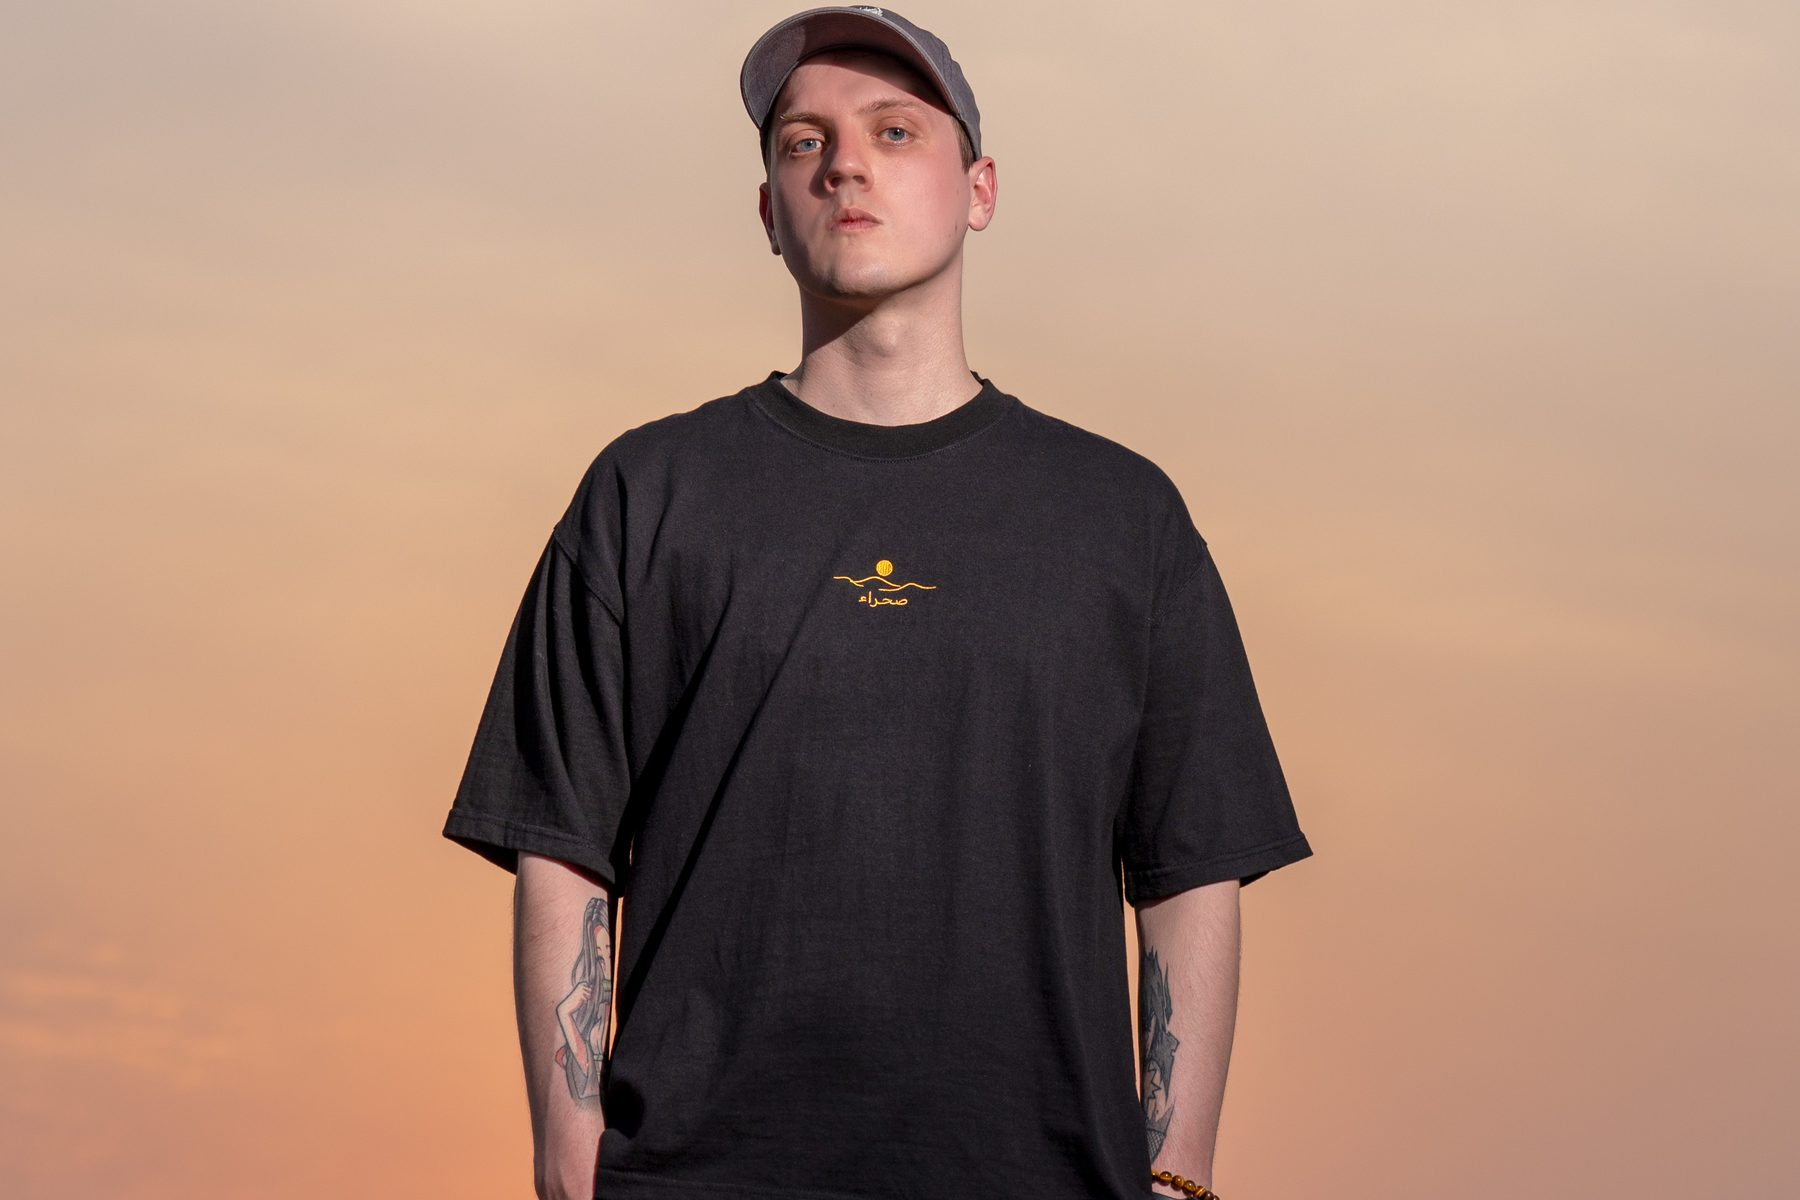
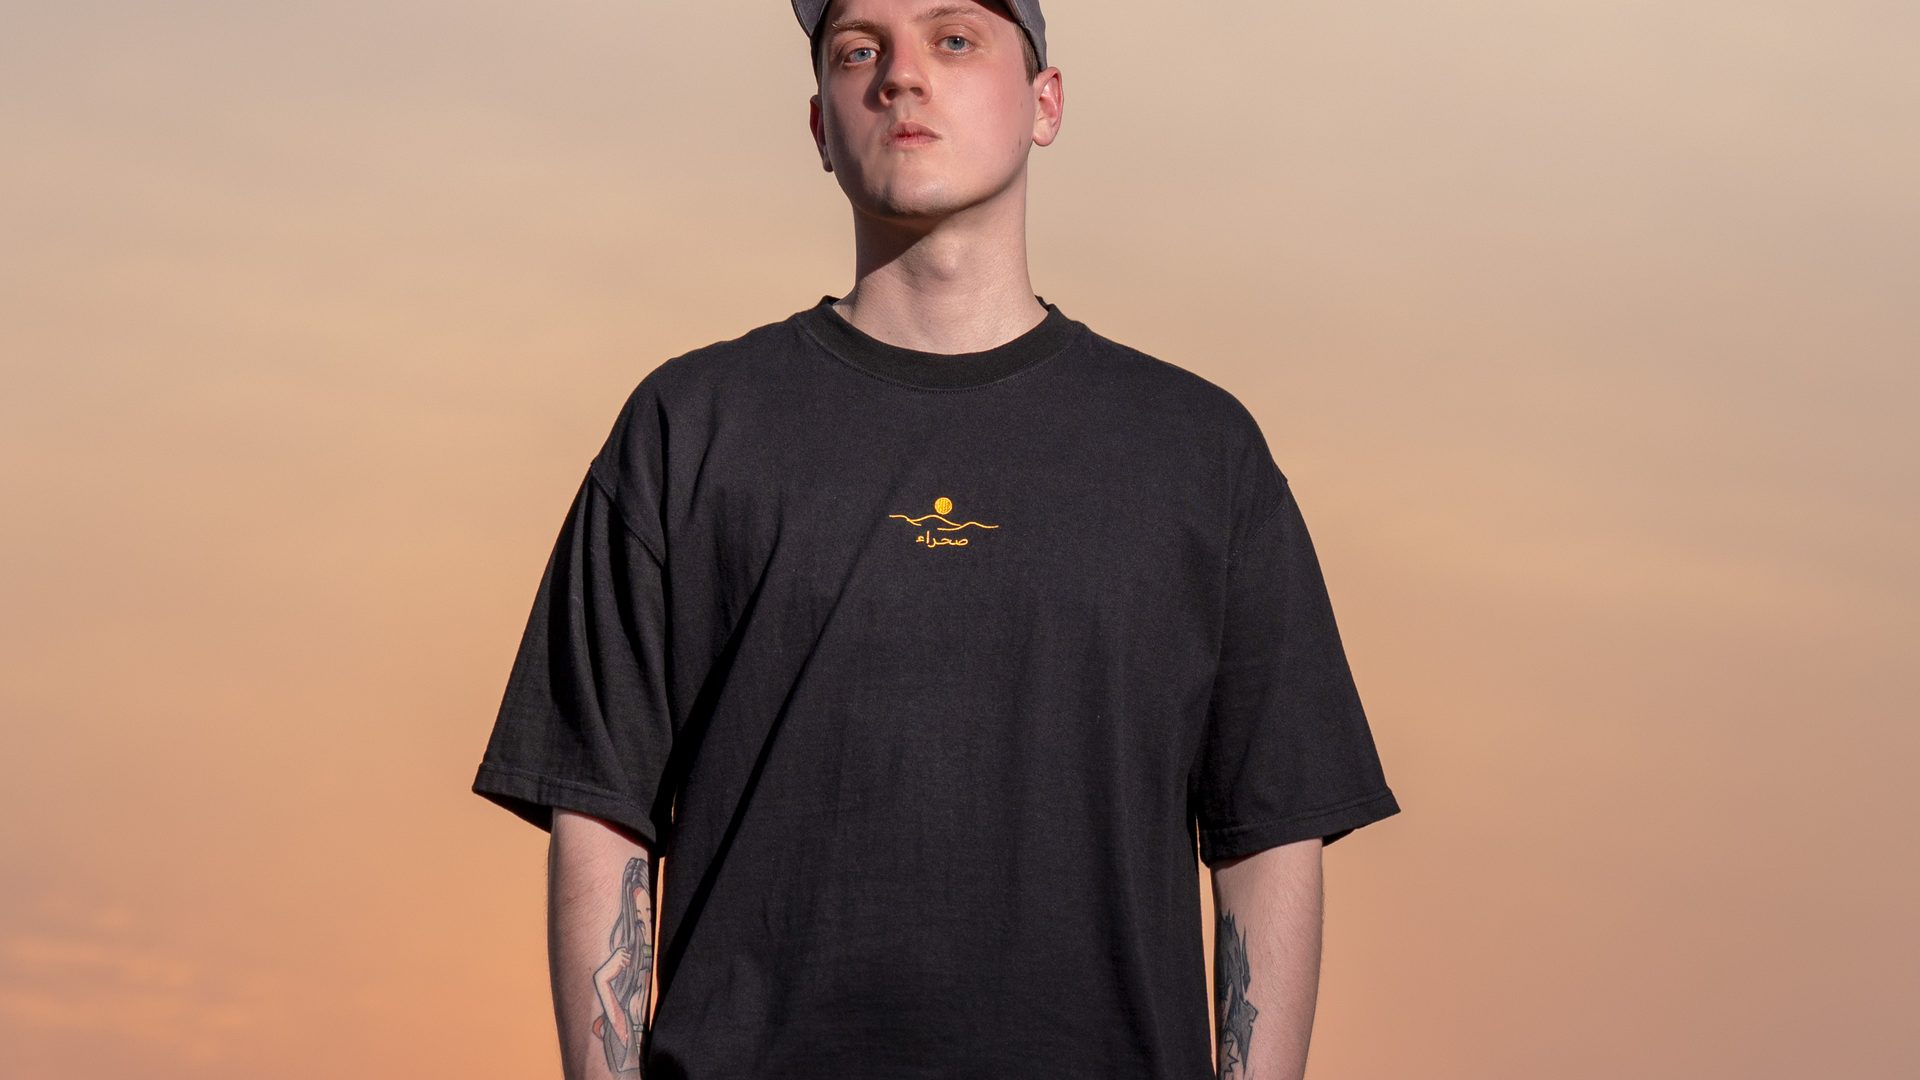
Hero: tagline top, caption left rail, CTA bottom; 16:9 crops

diff --git a/index.html b/index.html
@@ -636,6 +636,59 @@ footer{position:relative;z-index:2}
 </style>
 <script>try{var g=sessionStorage.getItem('sb_geo');if(g&&/^[A-Z]{2}$/.test(g)){document.documentElement.setAttribute('data-market',g==='AE'?'uae':(['SA','QA','OM','BH','KW'].indexOf(g)>-1?'gcc':'intl'));}}catch(e){}</script>
 <style data-hslide>
+/* ---- hero furniture pushed to the EDGES (Faheem, 21 Sep) ------------------
+   Centred type sat straight on top of the garment and took the focus off it.
+   Tagline pins to the top, CTA and dots to the bottom, the changing caption to
+   the left edge - so the middle of every frame, where the print is, stays clear. */
+/* flex:1 1 auto beats the #s-hero .col{flex:0 1 570px} still live in the
+   min-width:961px block - without it .col hugged its content and space-between
+   had nothing to distribute, so tagline and CTA bunched in the middle. */
+/* Pin the wrap to the section box instead of negotiating with .stop's own flex
+   centring - that kept collapsing .col to its content height, so space-between
+   had nothing to distribute and the tagline and CTA bunched mid-screen.
+   Top inset clears the fixed nav, bottom inset clears the scroll cue. */
+#s-hero .j-wrap{position:absolute!important;inset:104px 0 74px;display:flex;
+  align-items:stretch!important;justify-content:center;padding:0!important;
+  max-width:none!important;margin:0!important}
+/* flex-start + margin-top:auto on the CTA, not space-between: with three
+   children (h1, actions, dots) space-between parked the CTA in the middle of
+   the frame, which is the part that has to stay clear for the garment. */
+#s-hero .col{flex:1 1 auto!important;display:flex;flex-direction:column;
+  justify-content:flex-start;max-width:none!important;width:100%;
+  padding:0 clamp(18px,5vw,64px)!important}
+#s-hero .actions{margin-top:auto!important;margin-bottom:0}
+#s-hero h1{margin:0 auto;max-width:15ch;flex:0 0 auto}
+#s-hero .hero-mid{flex:1 1 auto}
+#s-hero .actions{margin-left:auto;margin-right:auto;flex:0 0 auto}
+#s-hero .hslide-dots{flex:0 0 auto}
+/* left rail, vertically centred, clear of the middle of the photo */
+#s-hero .hslide-cap{position:absolute;left:clamp(18px,5vw,64px);top:50%;
+  transform:translateY(-50%);width:min(30ch,28vw);height:auto;margin:0;text-align:left;z-index:4}
+#s-hero .hslide-cap-i{position:absolute;left:0;right:auto;top:0;width:100%;text-align:left}
+/* a soft left edge so the caption reads over whatever the photo puts there,
+   without darkening the middle of the frame where the garment is */
+/* darken only where type sits - the top band under the tagline, the bottom band
+   under the CTA, and a soft left edge for the caption. The middle stays close to
+   clear so the print on the garment is the brightest thing on screen. */
+#s-hero .hslide-scrim{background:
+  linear-gradient(180deg,rgba(10,8,18,.72) 0%,rgba(10,8,18,.22) 24%,rgba(10,8,18,.12) 52%,
+                  rgba(10,8,18,.30) 74%,rgba(10,8,18,.82) 100%),
+  linear-gradient(90deg,rgba(10,8,18,.60) 0%,rgba(10,8,18,.14) 28%,rgba(10,8,18,0) 46%)}
+/* the wide crops are cut at 16:9, the same ratio as the desktop hero box, so
+   object-fit:cover takes almost nothing more - what is framed in the file is
+   what ships, heads and prints included. */
+#s-hero .hslide-f img{object-position:50% 50%}
+@media(max-width:860px){
+  /* no room for a left rail next to the photo - caption sits under the tagline */
+  #s-hero .j-wrap{inset:96px 0 66px}
+  #s-hero .hslide-cap{position:relative;left:auto;top:auto;transform:none;
+    width:100%;max-width:520px;margin:14px auto 0;text-align:center}
+  #s-hero .hslide-cap-i{text-align:center}
+  #s-hero .hslide-scrim{background:linear-gradient(180deg,rgba(10,8,18,.72) 0%,rgba(10,8,18,.40) 30%,
+    rgba(10,8,18,.38) 62%,rgba(10,8,18,.84) 100%)}
+  #s-hero .hslide-f img{object-position:50% 42%}
+}
+
 /* ---- hero: the photograph IS the hero (Faheem, 21 Sep) -------------------
    The frosted .col panel was covering the slideshow, so it is removed HERE ONLY -
    the same rule also dresses #s-alquaa/#s-liwa/#s-naqab/#s-news and they still
@@ -701,7 +754,10 @@ footer{position:relative;z-index:2}
 /* slide 5's spans flow inline - stacked, the stars + shipping + returns rows
    overran the caption box. sahra-market.js hides the two shipping variants that
    do not match the visitor's market, so only one shows. */
-.hslide-cap-i>span{display:inline;font-size:13.5px;line-height:1.8;color:#EDE3D4;margin:0 5px}
+/* no display declaration: spans are inline already, and setting it here beat
+   the global .sb-ship-gcc,.sb-ship-intl{display:none} on specificity, so a UAE
+   visitor was shown the GCC and worldwide shipping lines as well. */
+.hslide-cap-i>span{font-size:13.5px;line-height:1.8;color:#EDE3D4;margin:0 5px}
 .hslide-cap-i>span b{color:#E9B978}
 .hslide-cap-i .hero-stars{color:#E9B978;letter-spacing:1px}
 .hslide-dots{position:relative;z-index:5;display:flex;gap:9px;margin:22px auto 0;justify-content:center}
@@ -1159,10 +1215,9 @@ if(document.readyState==='loading')document.addEventListener('DOMContentLoaded',
 
 <!-- 1 · HERO · Liwa at golden hour -->
 <section class="stop tall right" id="s-hero" data-tod="dawn" data-bg="liwa">
-  <div class="hslide" aria-hidden="true"><figure class="hslide-f is-on" data-hs="0"><picture><source media="(max-width:760px)" srcset="/shirts/hero-places-p.jpg"><img src="/shirts/hero-places.jpg" alt="" width="1800" height="1200" fetchpriority="high" decoding="async"></picture></figure><figure class="hslide-f" data-hs="1"><picture><source media="(max-width:760px)" srcset="/shirts/hero-cloth-p.jpg"><img src="/shirts/hero-cloth.jpg" alt="" width="1800" height="1200" loading="lazy" decoding="async"></picture></figure><figure class="hslide-f" data-hs="2"><picture><source media="(max-width:760px)" srcset="/shirts/hero-making-p.jpg"><img src="/shirts/hero-making.jpg" alt="" width="1800" height="1200" loading="lazy" decoding="async"></picture></figure><figure class="hslide-f" data-hs="3"><picture><source media="(max-width:760px)" srcset="/shirts/hero-fits-p.jpg"><img src="/shirts/hero-fits.jpg" alt="" width="1800" height="1200" loading="lazy" decoding="async"></picture></figure><figure class="hslide-f" data-hs="4"><picture><source media="(max-width:760px)" srcset="/shirts/hero-trust-p.jpg"><img src="/shirts/hero-trust.jpg" alt="" width="1800" height="1200" loading="lazy" decoding="async"></picture></figure><span class="hslide-scrim"></span></div>
+  <div class="hslide" aria-hidden="true"><figure class="hslide-f is-on" data-hs="0"><picture><source media="(max-width:760px)" srcset="/shirts/hero-places-p.jpg"><img src="/shirts/hero-places.jpg" alt="" width="1920" height="1080" fetchpriority="high" decoding="async"></picture></figure><figure class="hslide-f" data-hs="1"><picture><source media="(max-width:760px)" srcset="/shirts/hero-cloth-p.jpg"><img src="/shirts/hero-cloth.jpg" alt="" width="1920" height="1080" loading="lazy" decoding="async"></picture></figure><figure class="hslide-f" data-hs="2"><picture><source media="(max-width:760px)" srcset="/shirts/hero-making-p.jpg"><img src="/shirts/hero-making.jpg" alt="" width="1920" height="1080" loading="lazy" decoding="async"></picture></figure><figure class="hslide-f" data-hs="3"><picture><source media="(max-width:760px)" srcset="/shirts/hero-fits-p.jpg"><img src="/shirts/hero-fits.jpg" alt="" width="1920" height="1080" loading="lazy" decoding="async"></picture></figure><figure class="hslide-f" data-hs="4"><picture><source media="(max-width:760px)" srcset="/shirts/hero-trust-p.jpg"><img src="/shirts/hero-trust.jpg" alt="" width="1920" height="1080" loading="lazy" decoding="async"></picture></figure><span class="hslide-scrim"></span></div><div class="hslide-cap" aria-hidden="true"><span class="hslide-cap-i is-on" data-hc="0"><b>Limited first run</b>Three places you can drive to &mdash; Al Quaa, Liwa and Wadi Naqab.</span><span class="hslide-cap-i" data-hc="1"><b>The cloth</b>230 gsm combed ring-spun cotton. <b>AED&nbsp;199</b>.</span><span class="hslide-cap-i" data-hc="2"><b>The making</b>Printed on two designs, embroidered on two.</span><span class="hslide-cap-i" data-hc="3"><b>The fits</b>Regular and oversized, in the same design.</span><span class="hslide-cap-i" data-hc="4"><span class="hero-rv" data-hero-rv hidden><b class="hero-stars">&#9733;&#9733;&#9733;&#9733;&#9733;</b> <span class="hero-rv-n"></span></span><span class="sb-ship-uae"><b>Free</b> next-day UAE delivery &middot; order by 2 pm</span><span class="sb-ship-gcc">GCC 3&ndash;5 days &middot; free over AED 390</span><span class="sb-ship-intl">Worldwide 7&ndash;14 days</span><span>Free returns</span></span></div>
   <div class="j-wrap"><div class="col">
     <h1><span class="rv">Wear the</span> <em class="rv">wild side</em> <span class="rv">of the UAE.</span></h1>
-    <div class="hslide-cap" aria-hidden="true"><span class="hslide-cap-i is-on" data-hc="0"><b>Limited first run</b>Three places you can drive to &mdash; Al Quaa, Liwa and Wadi Naqab.</span><span class="hslide-cap-i" data-hc="1"><b>The cloth</b>230 gsm combed ring-spun cotton. <b>AED&nbsp;199</b>.</span><span class="hslide-cap-i" data-hc="2"><b>The making</b>Printed on two designs, embroidered on two.</span><span class="hslide-cap-i" data-hc="3"><b>The fits</b>Regular and oversized, in the same design.</span><span class="hslide-cap-i" data-hc="4"><span class="hero-rv" data-hero-rv hidden><b class="hero-stars">&#9733;&#9733;&#9733;&#9733;&#9733;</b> <span class="hero-rv-n"></span></span><span class="sb-ship-uae"><b>Free</b> next-day UAE delivery &middot; order by 2 pm</span><span class="sb-ship-gcc">GCC 3&ndash;5 days &middot; free over AED 390</span><span class="sb-ship-intl">Worldwide 7&ndash;14 days</span><span>Free returns</span></span></div>
     <div class="actions rv"><a class="j-btn solid" href="#collection" data-ring-jump>See the collection &#8964;</a><a class="j-btn" href="/places/">The places behind them</a></div>
     <div class="hslide-dots" aria-label="Hero slides"><button type="button" class="hslide-dot is-on" data-hd="0" aria-label="Slide 1 of 5"></button><button type="button" class="hslide-dot" data-hd="1" aria-label="Slide 2 of 5"></button><button type="button" class="hslide-dot" data-hd="2" aria-label="Slide 3 of 5"></button><button type="button" class="hslide-dot" data-hd="3" aria-label="Slide 4 of 5"></button><button type="button" class="hslide-dot" data-hd="4" aria-label="Slide 5 of 5"></button></div>
   </div>
